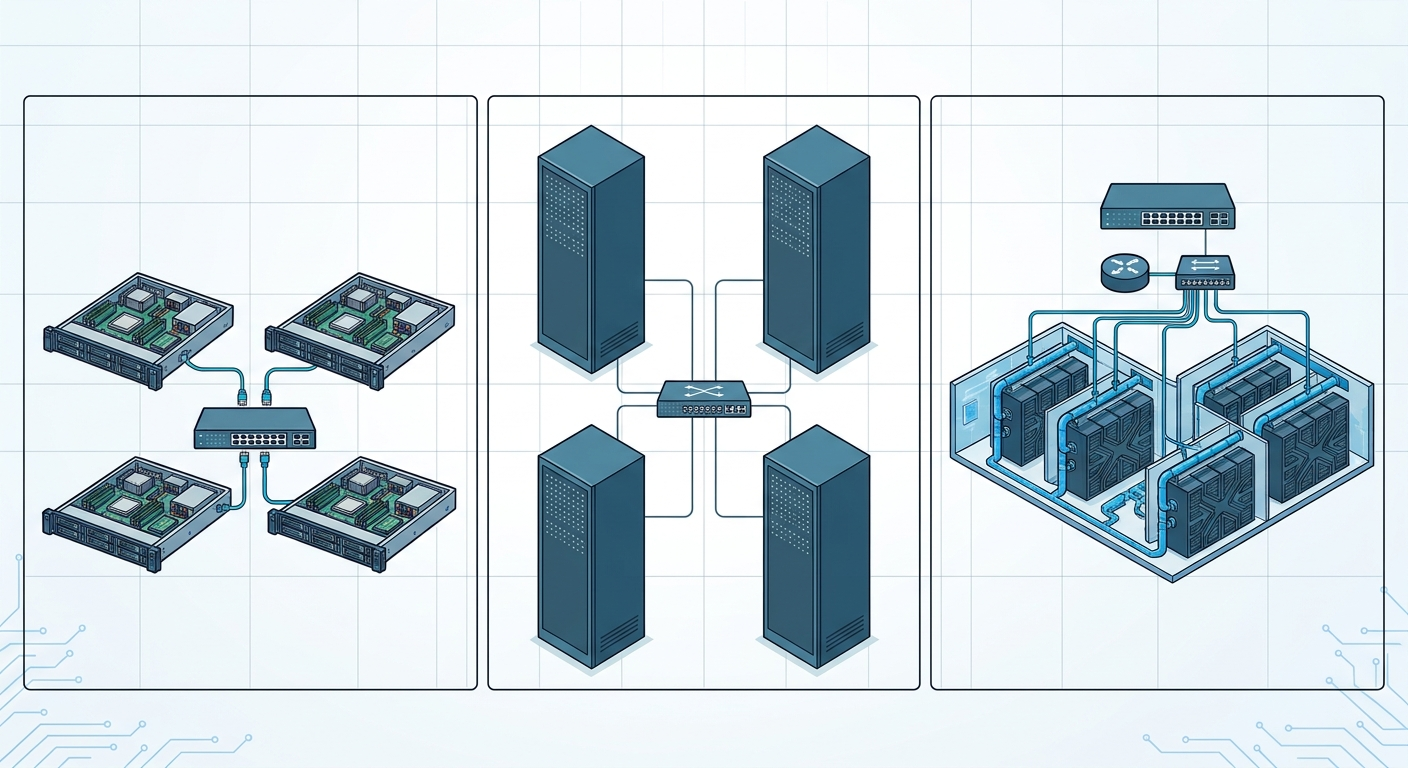
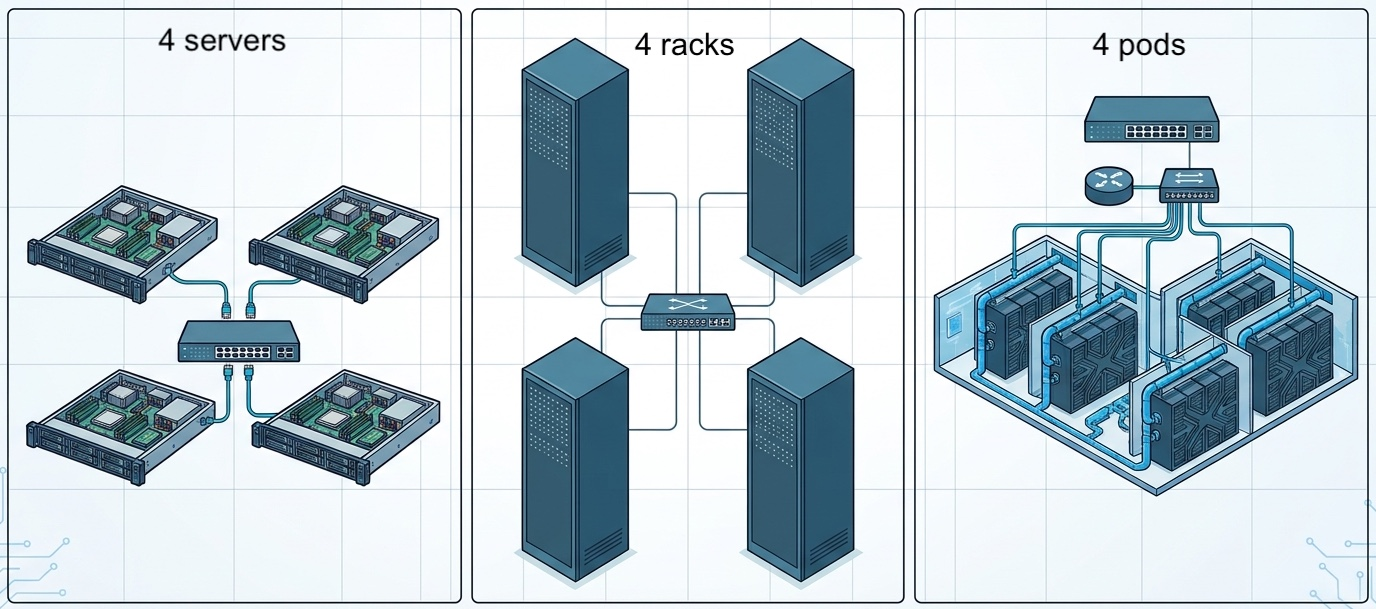
rev

Changed region(s): [[0.0, 0.0, 1.0, 1.0], [0.7812, 0.0624, 0.875, 0.1248]]

diff --git a/datacenter-energy/README.md b/datacenter-energy/README.md
@@ -92,12 +92,15 @@ We evaluate a scenario with 4 servers. This model easily generalizes to a full d
 Open the [dashboard](https://paolo-giaccone.github.io/edu-visuals/datacenter-energy/datacenter_power_onoff.html) and check the following settings (they should default)
 - Total workload capacity 180%
 - Perfect load balancing
-- Server: Idle Power 100 W,  Max power 300
-- Allocation: 45% for each server
+- Server: Idle Power 100 W,  Max power 300 W
+
+Now move the slides of the supply voltage to verify that the data in the following table is correct.
 
 | Scenario | Server 1-4 Allocation % | Power (linear profile) | Power (onoff profile)| Power (cubic profile) |
 | :--: | :--: |  :--: |  :--: | :--:|  
 | S1 | 45,45,45,45 | 760 W | 1200 W | 473W |
+
+**Q1:***
 
 
 
